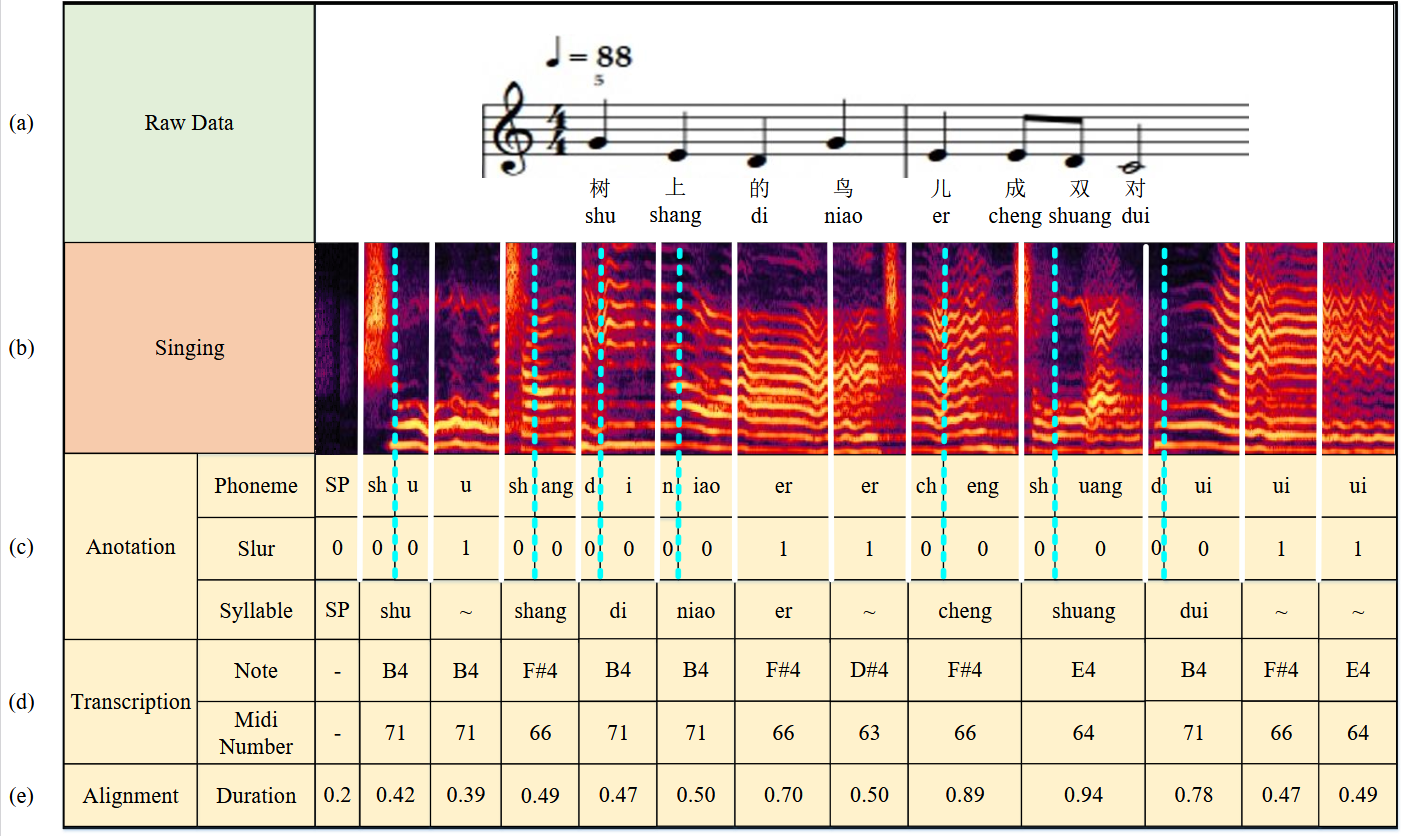
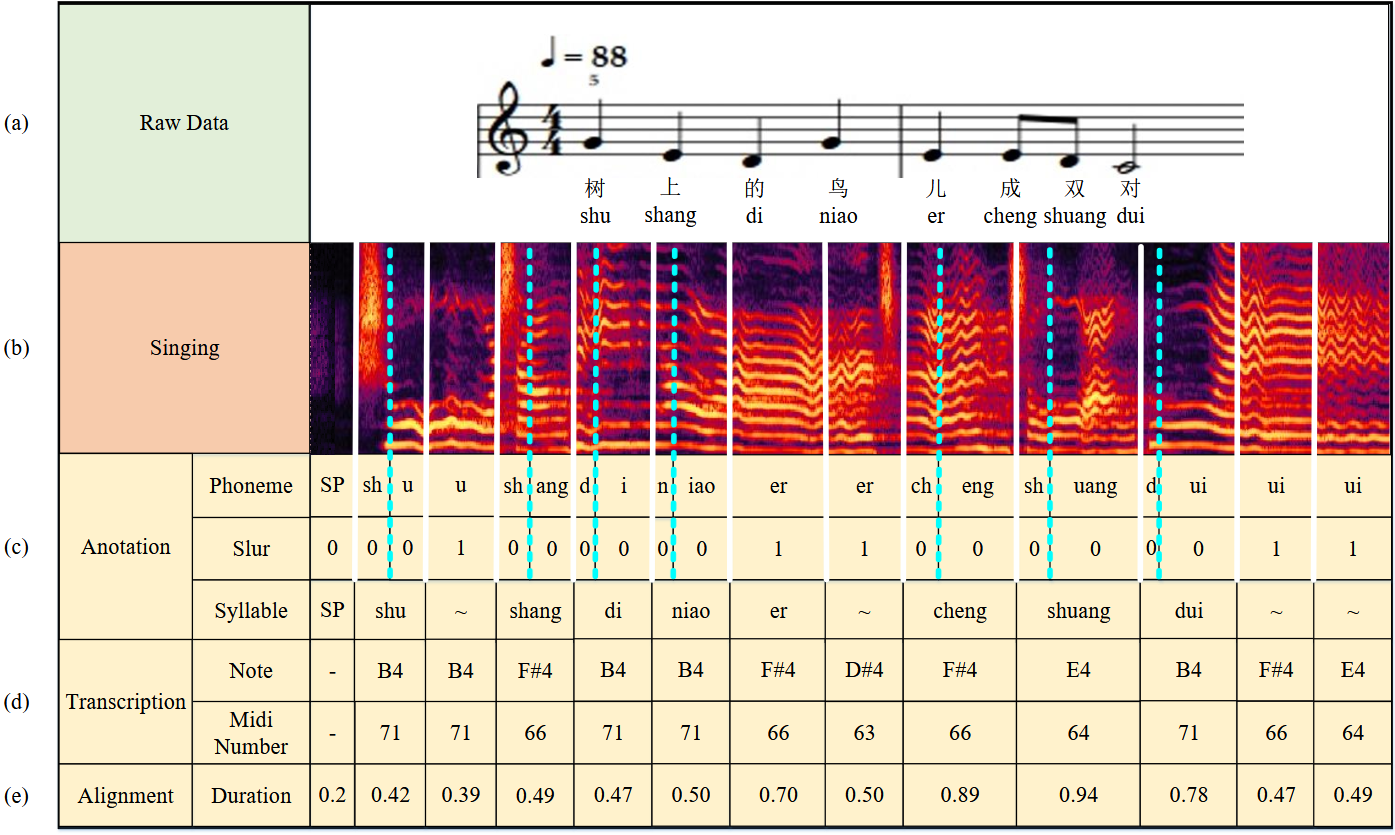
updata

diff --git a/opera/index.html b/opera/index.html
@@ -31,8 +31,12 @@
 <p> 
   Singing voice synthesis has been extensively used in metaverse, music creation and entertainment, and cultural preservation and inheritance. However, the synthesis of traditional operas, such as Huangmei opera, has been limited due to the lack of professionally annotated high-quality datasets and appropriate deep learning models. In this work, we develop a Huangmei opera singing voice dataset and propose an acoustic model tailored for the unique singing style of Huangmei opera. More specifically, we first propose a data annotation method tailored for Huangmei opera, effectively addressing the challenges posed by the numerous arias in this art form. Next, we construct our Huangmei opera singing voice dataset with the detailed musical score information, where each singing recording is captured at a high sampling rate of 44.1 kHz. Subsequently, we incorporate the Branchformer encoder and the pitch diffusion module to handle the complex and diverse mel odies characteristic of Huangmei opera. Finally, extensive subjective and objective experiments demonstrate the effectiveness of the proposed dataset and model.
 </p>
-	<center><img src='fig/model.png' width=1200px></center>
-  <center><img src='fig/dataset.png' width=1200px></center>
+	<!-- <center><img src='fig/model.png' width=1200px></center>
+  <center><img src='fig/dataset.png' width=1200px></center> -->
+  <div style="display: flex; justify-content: space-around; gap: 20px;">
+    <img src='fig/model.png' width="500px" />
+    <img src='fig/dataset.png' width="500px" />
+  </div>
 <br><br>
 
 <a href="https://github.com/WalkingInTheLight/HuangmeiSinger">Source Code</a>
